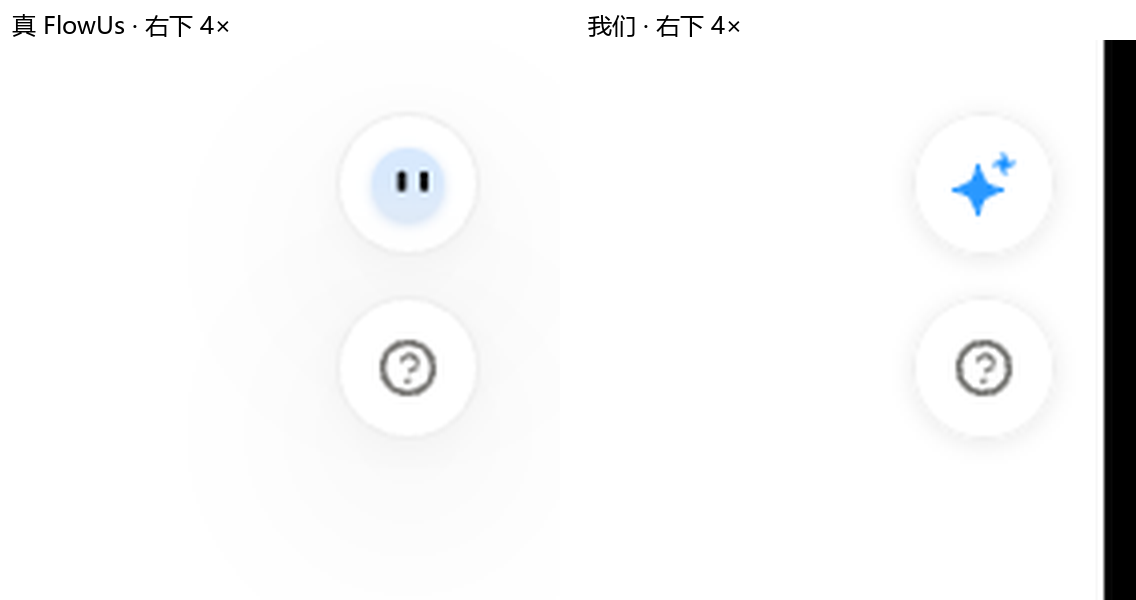
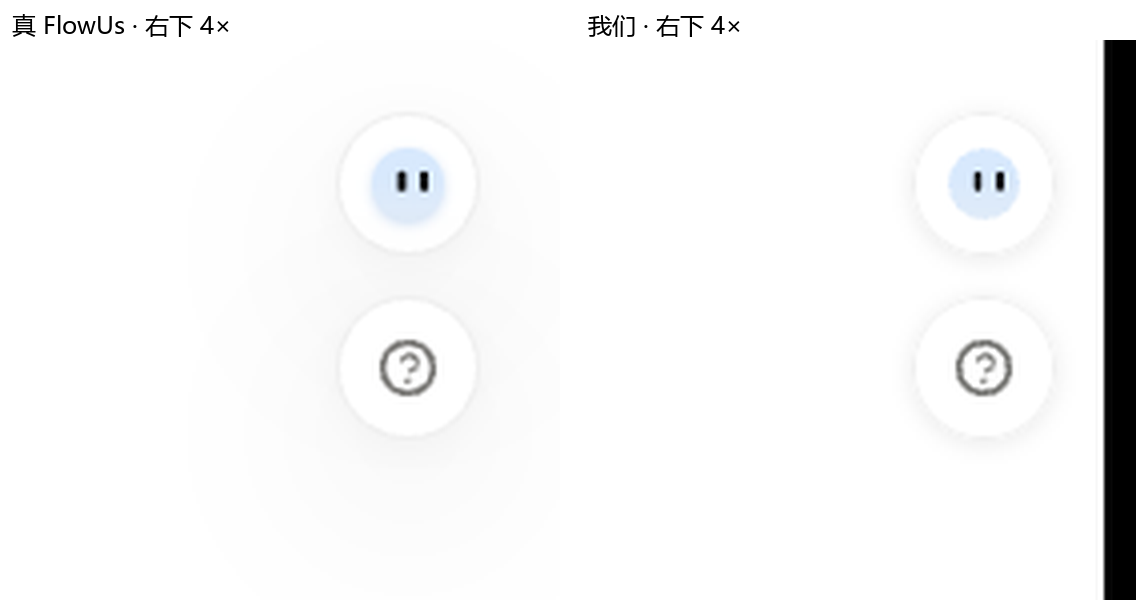
M1-T15 外观收口：AI 渐变圆脸/容量卡图标/升级链接纯黑/图标跟随 IconTheme
修掉 M1-T13 并排对照时肉眼看到的 4 处差异（依据见 docs/基准/证据/M1-T15/）：
1. AI 行与右下 AI 钮 → 实采 IcAiFace（渐变圆脸，20×20，无 data-icon、含 gradient）
2. 容量卡片图标 → 实采 IcCapacity（20×20 数据库图标；原来 16 的带圈 i）
3. 升级链接 → 实测 13px/22px/w500 纯黑 + 12px 箭头（原来 12/20/w500 蓝色、文案带 ›）
4. 图标偏黑 → FlowUsSvgIcon 默认跟随 IconTheme（未传色时原来用 SVG 自身黑色）

两个渲染层坑：
- ColorFilter(srcIn) 会把渐变压成单色 → 给 FlowUsSvgIcon 加 tint 开关（渐变图标传 tint:false）
- flutter_svg 不支持 SVG filter → IcAiFace 落盘时去掉 filter、只留渐变（docs 与 assets 两份同步）

新增图标 2 个（清单 101→103）：IcAiFace、IcCapacity；flowus_icons.dart 重新生成。
测试脆点：IcArrowRight01 现在既在页项悬停箭头又在「立即升级 ›」→ 页项箭头加 Key('row-chevron-<id>')；
「立即升级」在横幅里也有一个 → banner 测试限定在横幅内查找。

未做 → M1-T16：字体打包（"我们的字更宽更松、容量卡换行位置不同"的根因）、首页按钮激活态 tile、
客服气泡（本轮侧栏底部未找到）、截图工装右缘黑边。

验收：flutter test 238 全绿；flutter analyze lib/ 无问题；release 构建通过；三张并排对照图已刷新。

Changed region(s): [[0.8319, 0.24, 0.8935, 0.36]]

diff --git a/client/lib/shell/flowus_shell.dart b/client/lib/shell/flowus_shell.dart
@@ -265,7 +265,8 @@ class _AiRow extends StatelessWidget {
         height: FlowUsLayout.sidebarIconRowHeight,
         child: Row(
           children: [
-            FlowUsSvgIcon(FlowUsIc.aiFill, size: FlowUsComponents.inlineIconButton, color: c.primary),
+            // 自带渐变 → 不能单色覆盖（tint: false）
+            FlowUsSvgIcon(FlowUsIc.aiFace, size: FlowUsComponents.inlineIconButton, tint: false),
             const SizedBox(width: 8),
             Expanded(child: Text('FlowUs AI',
                 style: TextStyle(fontSize: 14, height: 24 / 14, color: c.textMain))),
@@ -435,6 +436,7 @@ class _PageItemState extends State<_PageItem> {
                     turns: widget.node.expanded ? 0.25 : 0,
                     duration: const Duration(milliseconds: 100),
                     child: FlowUsSvgIcon(FlowUsIc.arrowRight01,
+                    key: ValueKey('row-chevron-${widget.node.id}'),
                         size: FlowUsLayout.sidebarHoverChevronSize, color: c.textTertiary),
                   ),
               )
@@ -706,8 +708,9 @@ class _CapacityCard extends StatelessWidget {
           crossAxisAlignment: CrossAxisAlignment.start,
           mainAxisSize: MainAxisSize.min,
           children: [
+            // 实测：图标是 20×20 的「容量/数据库」图标（IcCapacity），不是带圈 i
             Row(children: [
-              FlowUsSvgIcon(FlowUsIc.info, size: 16, color: c.textTertiary),
+              FlowUsSvgIcon(FlowUsIc.capacity, size: 20, color: c.textTertiary),
               const SizedBox(width: 6),
               Text('空间容量已用完',
                   style: TextStyle(fontSize: 14, height: 20 / 14, fontWeight: FontWeight.w600, color: c.textMain)),
@@ -716,8 +719,13 @@ class _CapacityCard extends StatelessWidget {
             Text('已有文件不受影响，升级后可继续上传',
                 style: TextStyle(fontSize: 12, height: 20 / 12, color: c.textTertiary)),
             const SizedBox(height: 6),
-            Text('立即升级 ›',
-                style: TextStyle(fontSize: 12, height: 20 / 12, fontWeight: FontWeight.w500, color: c.primary)),
+            // 实测：13px / 22px / w500 / **纯黑**（不是主色蓝）+ 12px 的 › 箭头，两者间隔 4
+            Row(mainAxisSize: MainAxisSize.min, children: [
+              const Text('立即升级',
+                  style: TextStyle(fontSize: 13, height: 22 / 13, fontWeight: FontWeight.w500, color: Color(0xFF000000))),
+              const SizedBox(width: 4),
+              const FlowUsSvgIcon(FlowUsIc.arrowRight01, size: 12, color: Color(0xFF000000)),
+            ]),
           ],
         ),
       ),

diff --git a/client/lib/design/flowus_icons.dart b/client/lib/design/flowus_icons.dart
@@ -19,6 +19,7 @@ abstract final class FlowUsIc {
   static const String add = 'IcAdd';
   static const String addBoard = 'IcAddBoard';
   static const String ai = 'IcAi';
+  static const String aiFace = 'IcAiFace';
   static const String aiFill = 'IcAiFill';
   static const String arrowDown01 = 'IcArrowDown01';
   static const String arrowHide = 'IcArrowHide';
@@ -34,6 +35,7 @@ abstract final class FlowUsIc {
   static const String board = 'IcBoard';
   static const String calendar = 'IcCalendar';
   static const String call = 'IcCall';
+  static const String capacity = 'IcCapacity';
   static const String chartNumber = 'IcChartNumber';
   static const String check = 'IcCheck';
   static const String check02 = 'IcCheck02';
@@ -123,6 +125,7 @@ abstract final class FlowUsIc {
     'IcAdd',
     'IcAddBoard',
     'IcAi',
+    'IcAiFace',
     'IcAiFill',
     'IcArrowDown01',
     'IcArrowHide',
@@ -138,6 +141,7 @@ abstract final class FlowUsIc {
     'IcBoard',
     'IcCalendar',
     'IcCall',
+    'IcCapacity',
     'IcChartNumber',
     'IcCheck',
     'IcCheck02',
@@ -229,17 +233,21 @@ abstract final class FlowUsIc {
 /// - [size] 实测值：16（29 个）/ 20（25 个）/ 12（2 个）/ 14（1 个）
 /// - [color] 用 ColorFilter(srcIn) 上色，填充式与描边式都适用
 class FlowUsSvgIcon extends StatelessWidget {
-  const FlowUsSvgIcon(this.name, {super.key, this.size = 16, this.color});
+  const FlowUsSvgIcon(this.name, {super.key, this.size = 16, this.color, this.tint = true});
 
   final String name;
   final double size;
   final Color? color;
 
+  /// 是否用单色覆盖（默认 true）。**自带多色/渐变的图标必须传 false**——
+  /// ColorFilter(srcIn) 会把渐变压成一个纯色（AI 渐变圆脸就是这么变成蓝圆片的）
+  final bool tint;
+
   @override
   Widget build(BuildContext context) {
     // 不给 color 时**跟随外层 IconTheme**（和 Material Icon 的行为一致）——
     // 否则 SVG 会用自身的 currentColor/黑色，在浅色侧栏里显得又黑又粗（M1-T13 并排对照时发现的）
-    final effective = color ?? IconTheme.of(context).color;
+    final effective = tint ? (color ?? IconTheme.of(context).color) : null;
     return SvgPicture.asset(
       'assets/icons/$name.svg',
       width: size,

diff --git a/client/test/icon_wiring_test.dart b/client/test/icon_wiring_test.dart
@@ -10,9 +10,9 @@ import 'package:flutter_test/flutter_test.dart';
 import 'package:bijiapp/design/flowus_icons.dart';
 
 void main() {
-  test('FlowUsIc.all 有 101 个且没有重复（M1-T14 补齐 9 个后）', () {
-    expect(FlowUsIc.all.length, 101);
-    expect(FlowUsIc.all.toSet().length, 101);
+  test('FlowUsIc.all 有 103 个且没有重复（M1-T15 又补 2 个）', () {
+    expect(FlowUsIc.all.length, 103);
+    expect(FlowUsIc.all.toSet().length, 103);
   });
 
   test('每个图标名都有对应的 assets/icons/<名字>.svg', () {
@@ -24,9 +24,9 @@ void main() {
     expect(missing, isEmpty, reason: '这些图标名在 assets/icons/ 下没有文件：$missing');
   });
 
-  test('资产目录里的 svg 数量与清单一致（102 = 101 个清单项 + 1 个未登记）', () {
+  test('资产目录里的 svg 数量与清单一致（104 = 103 个清单项 + 1 个未登记）', () {
     final files = Directory('assets/icons').listSync().whereType<File>().where((f) => f.path.endsWith('.svg')).toList();
-    expect(files.length, 102, reason: '目录里实际有 ${files.length} 个 svg');
+    expect(files.length, 104, reason: '目录里实际有 ${files.length} 个 svg');
     // 反向也查一遍：目录里有、但清单没登记的（多出来的那个），确保只是漏登记而不是名字不一致
     final names = FlowUsIc.all.toSet();
     final unlisted = files
@@ -39,7 +39,7 @@ void main() {
   test('关键槽位的图标名与实测一致（防止把 IcMore 换成别的）', () {
     // 依据 基准-图标对照.md + M1-T07 证据
     expect(FlowUsIc.arrowHide, 'IcArrowHide'); // 侧栏折叠 «
-    expect(FlowUsIc.aiFill, 'IcAiFill'); // FlowUs AI 行
+    expect(FlowUsIc.aiFace, 'IcAiFace'); // FlowUs AI 行（渐变圆脸，M1-T15 换成实采）
     expect(FlowUsIc.subscribe, 'IcSubscribe'); // 我的订阅
     expect(FlowUsIc.luStore, 'Store'); // 市集（Lucide）
     expect(FlowUsIc.trash, 'IcTrash'); // 回收站

diff --git a/client/test/floating_test.dart b/client/test/floating_test.dart
@@ -48,7 +48,7 @@ void main() {
 
   testWidgets('两钮 36×36 全圆白底 1px 边框；距右 20、距底 86 / 40（实测渲染值）', (tester) async {
     await _pumpShell(tester);
-    final ai = tester.getRect(buttonOf(FlowUsIc.aiFill));
+    final ai = tester.getRect(buttonOf(FlowUsIc.aiFace));
     final help = tester.getRect(buttonOf(FlowUsIc.question));
 
     for (final r in [ai, help]) {
@@ -66,7 +66,7 @@ void main() {
       closeTo(FlowUsFloating.gap, 0.01),
     );
 
-    final deco = tester.widget<Container>(buttonOf(FlowUsIc.aiFill)).decoration as BoxDecoration;
+    final deco = tester.widget<Container>(buttonOf(FlowUsIc.aiFace)).decoration as BoxDecoration;
     expect(deco.shape, BoxShape.circle);
     expect(deco.color, Colors.white);
     expect((deco.border! as Border).top.color, const Color(0x0F000000)); // rgba(0,0,0,0.06)
@@ -75,7 +75,7 @@ void main() {
 
   testWidgets('图标尺寸 20（AI）/ 16（帮助）', (tester) async {
     await _pumpShell(tester);
-    expect(tester.widget<FlowUsSvgIcon>(floating(svgIcon(FlowUsIc.aiFill))).size, 20);
+    expect(tester.widget<FlowUsSvgIcon>(floating(svgIcon(FlowUsIc.aiFace))).size, 20);
     expect(tester.widget<FlowUsSvgIcon>(floating(svgIcon(FlowUsIc.question))).size, 16);
   });
 
@@ -161,7 +161,7 @@ void main() {
   testWidgets('点 AI 钮 → 回调；AI 面板属 M9', (tester) async {
     var ai = false;
     await _pumpShell(tester, onAi: () => ai = true);
-    await tester.tap(floating(svgIcon(FlowUsIc.aiFill)));
+    await tester.tap(floating(svgIcon(FlowUsIc.aiFace)));
     await tester.pumpAndSettle();
     expect(ai, isTrue);
     expect(find.text('帮助中心'), findsNothing);

diff --git a/client/test/sidebar_layout_test.dart b/client/test/sidebar_layout_test.dart
@@ -94,7 +94,8 @@ void main() {
       expect(find.text('市集'), findsOneWidget);
       expect(find.text('回收站'), findsOneWidget);
       expect(find.text('空间容量已用完'), findsOneWidget); // 底部容量卡片
-      expect(find.text('立即升级 ›'), findsOneWidget);
+      // M1-T15 起按实测拆开：13/22/500 纯黑的「立即升级」+ 12px 的 › 箭头
+      expect(find.text('立即升级'), findsOneWidget);
     });
 
     testWidgets('页项都在（空间 2 个 + 私人 3 个）', (tester) async {
@@ -239,7 +240,7 @@ void main() {
     testWidgets('悬停有子页的行：换成展开箭头（12×12），标题缩到 121 宽', (tester) async {
       await _pumpShell(tester);
       await hoverRow(tester, '磷化工知识库');
-      expect(svgIcon(FlowUsIc.arrowRight01), findsOneWidget);
+      expect(find.byKey(const ValueKey('row-chevron-pchem')), findsOneWidget);
       expect(svgIcon(FlowUsIc.folderContent), findsNothing); // 图标槽被箭头接管
       // 未悬停 161（= 210 − 41 − 8），悬停 121（再让出 4+20+4+20）
       expect(tester.getRect(find.text('磷化工知识库')).width, closeTo(121, 0.5));
@@ -278,7 +279,7 @@ void main() {
         callbacks: SidebarCallbacks(onToggleExpand: (id, ex) => calls.add((id, ex))),
       );
       await hoverRow(tester, '磷化工知识库');
-      await tester.tap(svgIcon(FlowUsIc.arrowRight01));
+      await tester.tap(find.byKey(const ValueKey('row-chevron-pchem')));
       await tester.pumpAndSettle();
       expect(calls, hasLength(1));
       expect(calls.single.$1, 'pchem');

diff --git a/client/test/banner_test.dart b/client/test/banner_test.dart
@@ -54,7 +54,11 @@ void main() {
       expect((deco.border as Border?)?.bottom.color, FlowUsBannerColors.systemBorder);
 
       // 升级钮 74×28
-      final upgradeBtn = tester.getRect(find.ancestor(of: find.text('立即升级'), matching: find.byType(Container)).first);
+      // 注意：侧栏容量卡片里也有「立即升级」（M1-T15），所以要把查找限定在横幅内
+      final upgradeBtn = tester.getRect(find.ancestor(
+        of: find.descendant(of: find.byType(FlowUsSystemBanner), matching: find.text('立即升级')),
+        matching: find.byType(Container),
+      ).first);
       expect(upgradeBtn.width, 74);
       expect(upgradeBtn.height, closeTo(FlowUsComponents.buttonSmallHeight, 0.5));
     });

diff --git a/client/lib/shell/flowus_floating.dart b/client/lib/shell/flowus_floating.dart
@@ -81,7 +81,8 @@ class _FlowUsFloatingButtonsState extends State<FlowUsFloatingButtons> {
               widget.onAiTap?.call();
             },
             // 上钮图标 20×20（AI 触发；Material 占位，真图标 M1-T12）
-            child: FlowUsSvgIcon(FlowUsIc.aiFill, size: FlowUsFloating.aiIconSize, color: c.primary),
+            child: // 自带渐变 → 不能单色覆盖（tint: false）
+            FlowUsSvgIcon(FlowUsIc.aiFace, size: FlowUsFloating.aiIconSize, tint: false),
           ),
         ),
         Positioned(

diff --git a/client/test/responsive_baseline_test.dart b/client/test/responsive_baseline_test.dart
@@ -147,7 +147,7 @@ void main() {
         find.ancestor(
           of: find.descendant(
             of: find.byType(FlowUsFloatingButtons),
-            matching: find.byWidgetPredicate((w) => w is FlowUsSvgIcon && w.name == FlowUsIc.aiFill),
+            matching: find.byWidgetPredicate((w) => w is FlowUsSvgIcon && w.name == FlowUsIc.aiFace),
           ),
           matching: find.byType(Container),
         ).first,

diff --git a/开发任务表-v3.0-FlowUs复刻版.md b/开发任务表-v3.0-FlowUs复刻版.md
@@ -110,7 +110,8 @@
 | M1-T12 | 图标接线（由 M1-T02 拆分） | 引入 `flutter_svg`，把 `docs/基准/图标/` 的 93 个 SVG 接进 App（pubspec assets 登记 + 图标常量表 + 按名取用）；Lucide 那 6 个用 `lucide_icons` 包。把侧栏/分区/底部/工具条的占位 Material 图标全部换成真图标。**验收**：侧栏截图里图标与真 FlowUs 一致（不再是占位方块） | DONE·部分（11-10：93 个 SVG 进 `client/assets/icons/` + pubspec 登记 + `flutter_svg`；`lib/design/flowus_icons.dart` **由 icons-manifest.json 生成**（92 名字常量 + FlowUsSvgIcon，ColorFilter 上色）；侧栏/横幅/标签条/浮动钮/回收站/空页**全部换真图标**；新增 `icon_wiring_test.dart` 4 条（名字↔资产一一对应，防空白圈）。**偏离原计划**：Lucide 那 6 个**没有引入 `lucide_icons` 包**，直接用实采的 Lucide SVG 原文（同样字形、少一个依赖、只有一条渲染路径）；如需包版可回退一处。**未完成**：10 个图标没有实采 SVG（侧栏的首页/头像/通知 + 空页选择器的思维导图/看板/画廊/目录/时间轴/日历/收集表）→ 拆 M1-T14。测试 238 全绿、analyze 0） |
 | M1-T13 | 模块自验 + 对照交付 | 逐屏自核 → 并排对照图 + 可运行 exe 交用户 | DONE（11-10：**建了截"我们自己窗口"的链路** —— Flutter Windows 是 GPU 渲染，PrintWindow 必须带 PW_RENDERFULLCONTENT(2)，且要按非客户区(16×39)调大窗口、再按客户区偏移(8,31)裁剪，否则图有黑边；踩坑：PowerShell 变量大小写不敏感，`$h` 覆盖了高度参数 `$H` → 截出 1920×1051622 废图。产出并排对照图 3 张（全屏 / 侧栏 2× / 右下 4×）+ 可运行 exe + 交付文档；自验发现并修掉两处真差异：**浮动钮缺阴影**、**未传颜色的 SVG 用了黑色**（改成默认跟随 IconTheme）。**已知差异 7 条**逐条写明（主区内容属 M4/M2、页面 emoji 图标属 M2-T11、字体未打包/AI 行图标/容量卡图标/升级链接色/客服气泡 → 拆 M1-T15）。238 测试全绿、analyze 0、release 构建通过。证据 `docs/基准/证据/M1-T13/`） |
 | M1-T14 | 补采缺失的 10 个图标（由 M1-T12 拆出） | 侧栏图标行「首页/头像/通知」3 个 + 空页选择器「思维导图/看板/画廊/目录/时间轴/日历/收集表」7 个，补进 `docs/基准/图标/` 与 `assets/icons/` 后用 `FlowUsSvgIcon` | DONE（11-10：先查明"为什么没采到"——侧栏 3 个的 `<svg>` **没有 data-icon 属性**（自研 path + Lucide class），空页 6 个**必须先新建空页才会出现该面板**（M0 没走这条路径）。做法是抠 DOM 原文：侧栏 5 个 32×32 盒子取 svg.outerHTML（viewBox 20×20 两个 / 24×24 三个，再次印证两家混用），新建空页后面板 13 行**全带 data-icon**（IcMindmap/IcBoard/IcGallery/IcFormNew/IcImport/IcFolder …）直接沿用真名。9 个新 SVG 双写到 docs + assets 并追加进 manifest（92→101），重新生成 flowus_icons.dart；侧栏 3 个占位与空页 13 项全部换真图标，**`grep "Icons\." lib/shell/*.dart` 全为 0**（客户端再无 Material 占位）。顺带纠正：目录/时间轴/日历/模板本来就有资产，是 M1-T12 误判。测试 238 全绿、analyze 0。证据 `docs/基准/证据/M1-T14/`。**采集纪律**：为开面板新建的空页已三步删除法彻底删除，侧栏复核回基线 12 项） |
-| M1-T15 | 外观收口（由 M1-T13 自验拆出） | ① **字体打包**：真 FlowUs 用自有字体（my-quote 系），我们只声明 fontFamily、文件没打包 → 实际回退系统字体；② AI 行图标应为浅蓝渐变圆脸（现用 IcAiFill 星形）；③ 容量卡片图标应为数据库圆柱（现 IcInfo 带圈 i）；④ 升级链接黑色 `立即升级 >`（现蓝色 `›`）；⑤ 侧栏底部「W 徽标 + 客服气泡」（未采规格，需补采）；⑥ 复核一遍图标视觉重量是否偏黑 | TODO |
+| M1-T15 | 外观收口（由 M1-T13 自验拆出） | ① **字体打包**：真 FlowUs 用自有字体（my-quote 系），我们只声明 fontFamily、文件没打包 → 实际回退系统字体；② AI 行图标应为浅蓝渐变圆脸（现用 IcAiFill 星形）；③ 容量卡片图标应为数据库圆柱（现 IcInfo 带圈 i）；④ 升级链接黑色 `立即升级 >`（现蓝色 `›`）；⑤ 侧栏底部「W 徽标 + 客服气泡」（未采规格，需补采）；⑥ 复核一遍图标视觉重量是否偏黑 | DONE·部分（11-10：②③④⑥ 已修 —— AI 行与右下钮换实采 `IcAiFace`（渐变圆脸）、容量卡换 `IcCapacity`(20)、升级链接改 13/22/w500 **纯黑** + 12px 箭头、`FlowUsSvgIcon` 默认跟随 IconTheme（原来未传色=黑）；两个渲染坑：**ColorFilter(srcIn) 会把渐变压成单色**（加 `tint` 开关）、**flutter_svg 不支持 SVG filter**（IcAiFace 去掉 filter 留渐变）。③ 修完并排对照图 AI/帮助钮左右一致。**未做 → M1-T16**：① 字体打包（这是"我们的字更宽更松、容量卡换行位置不同"的根因）、⑤ 客服气泡（本轮侧栏底部**没找到**，先按不存在处理，T16 确认）、首页按钮的激活态浅灰 tile。238 测试全绿、analyze 0。证据 `docs/基准/证据/M1-T15/`） |
+| M1-T16 | 字体打包与剩余外观（由 M1-T15 拆出） | ① **字体打包**：真 FlowUs 默认字体（my-quote 系）+ 可选项「霞鹜文楷 Plus / 思源宋体 Plus」——先确认许可（霞鹜文楷是 OFL，可打包；my-quote 是自家字体，需评估能否内嵌或换等宽近似的开源字体），再把字体文件放进 `client/assets/fonts/` + pubspec 登记 + `FlowUsTypography.fontFamily` 指过去，并用对照图验证**换行位置一致**（现在容量卡那句断点不同）；② 侧栏首页按钮的**激活态浅灰圆角 tile**；③ 「客服气泡 / W 徽标」是否存在（本轮底部没找到）；④ 截图工装的右缘黑边（窗口超出屏幕 8~16px，把窗口 x 移到 −8） | TODO |
 
 ---
 

diff --git a/docs/基准/证据/M1-T15/验收-实测规则.md b/docs/基准/证据/M1-T15/验收-实测规则.md
@@ -1,0 +1,45 @@
+# M1-T15 外观收口 · 验收记录
+
+日期：2026-11-10　执行者：watchdog 会话
+
+## 1 本轮修掉的 4 处（都来自 M1-T13 并排对照时肉眼看到的差异）
+
+| # | 差异 | 实测依据 | 处理 |
+| --- | --- | --- | --- |
+| 1 | AI 行图标是"蓝星"而不是渐变圆脸 | 侧栏 AI 行左图标 20×20、`viewBox 0 0 20 20`、**无 `data-icon`**、含 gradient | 抠 DOM 原文存为 `IcAiFace.svg`，侧栏 AI 行与右下 AI 钮都用它 |
+| 2 | 容量卡片图标是"带圈 i" | 侧栏底部 (21,823) 20×20、无 `data-icon` | 抠出存为 `IcCapacity.svg`，尺寸 16 → **20** |
+| 3 | 升级链接颜色/字号不对 | **13px / 22px / w500 / `rgb(0,0,0)` 纯黑**；文案只是「立即升级」，后面跟 12px 的 `IcArrowRight01`，间隔 4 | 改成 13/22/w500 纯黑 + 12px 箭头（原来 12/20/w500 主色蓝、文案 `立即升级 ›`） |
+| 4 | 图标偏黑偏粗 | 未传 color 的 SVG 用了自身黑色 | `FlowUsSvgIcon` 默认**跟随 IconTheme**（与 Material Icon 行为一致） |
+
+## 2 过程中挖出的两个"渲染层"坑（值得记）
+
+1. **`ColorFilter(srcIn)` 会把渐变压成单色**——AI 圆脸一开始渲染成一个纯蓝圆片。
+   → 给 `FlowUsSvgIcon` 加 `tint` 开关（默认 true），**自带多色/渐变的图标必须 `tint: false`**。
+2. **flutter_svg 不支持 SVG `filter`（feGaussianBlur 等）**——采到的 `IcAiFace.svg` 带 `filter="url(#...)"`，
+   形状会被吞掉。→ 落盘时把它去掉、只保留渐变；两处副本（`docs/基准/图标/` 与 `assets/icons/`）同步处理。
+
+## 3 没做完 → 拆 M1-T16（字体打包）
+
+**字体是这轮唯一没动的项**，而且它是一整块活：真 FlowUs 用自有字体（`my-quote` 系 + 霞鹜文楷 Plus / 思源宋体 Plus），
+我们只声明了 `fontFamily`、**字体文件没打包**，实际回退系统字体 → 直接后果就是对照图里"我们的字更宽更松"
+（容量卡那句换行也不同：真 FlowUs 断在「升级后可」，我们断在「升级后可继续」）。已拆 **M1-T16**。
+
+另外两条仍开着，也并入 M1-T16 一起复核：
+- 侧栏首页按钮的**激活态浅灰圆角 tile**（真 FlowUs 在首页路由时第一格有底色；我们没做这个状态）
+- 「客服气泡 / W 徽标」：这轮**在侧栏底部没有找到**（只找到容量卡图标与 `›` 箭头），先按"不存在"处理，T16 再确认
+
+## 4 真实输出
+
+```
+flutter analyze lib/ →  No issues found!
+flutter test          →  +238: All tests passed!
+flutter build windows --release -t lib/main_shell.dart --no-tree-shake-icons → 构建成功
+```
+
+对照图已刷新（`docs/基准/证据/M1-T13/` 三张），AI 钮与帮助钮现在左右一致。
+
+> 截图说明：右下 4× 图右缘有一条黑边，是**截图工装问题**——窗口按 `W+16` 调宽后超出 1920 屏幕右缘 8~16px，
+> PrintWindow 拿不到屏外像素。不是界面元素，修工装的方法是把窗口 x 移到 −8，留待下次一并改。
+>
+> 测试脆点又踩一次：`IcArrowRight01` 现在既在"页项悬停箭头"也在"立即升级 ›"里，按图标名找会命中两个 →
+> 给页项箭头加了 `Key('row-chevron-<id>')`；「立即升级」同理在横幅里也有一个 → banner 测试已限定在横幅内查找。

diff --git a/ops/执行报告-v3.md b/ops/执行报告-v3.md
@@ -1930,3 +1930,20 @@ flutter analyze lib/                     → No issues found!
 ### 测试底线
 
 `flutter test` **238 全绿**；`flutter analyze lib/` 无问题；Windows release 构建通过。
+## M1-T15 外观收口（2026-11-10）
+
+M1-T13 并排对照时肉眼看到的 4 处差异，这轮修掉 3 处半：
+
+1. **AI 行 / 右下 AI 钮** → 换成实采的 `IcAiFace`（渐变圆脸）。顺带挖出两个渲染坑：
+   `ColorFilter(srcIn)` 会把**渐变压成单色**（加 `tint` 开关解决）、`flutter_svg` **不支持 SVG filter**
+   （采到的图标带 `filter="url(#...)"`，形状被吞 → 落盘时去掉 filter、保留渐变）。
+2. **容量卡片图标** → 实采 `IcCapacity`（20×20，原来是 16 的带圈 i）。
+3. **升级链接** → 实测 13/22/w500 **纯黑** + 12px 箭头（原来 12/20/w500 蓝色 + 文案里带 ›）。
+4. **图标偏黑** → `FlowUsSvgIcon` 默认跟随 IconTheme（未传色时原来用 SVG 自身黑色）。
+
+没做：**字体打包**（真 FlowUs 用自有字体，我们回退系统字体——这就是"我们的字更宽更松、容量卡换行位置不同"的根因）、
+首页按钮激活态 tile、客服气泡（本轮侧栏底部没找到）→ 全部拆到 **M1-T16**。
+
+验收：flutter test 238 全绿；analyze 0；release 构建通过；三张并排对照图已刷新（AI/帮助钮左右一致）。
+测试脆点再记一次：同一个图标现在出现在多处（`IcArrowRight01` 既是页项悬停箭头又是「立即升级 ›」），
+已给页项箭头加 `Key('row-chevron-<id>')`，banner 测试限定在横幅内查找。
